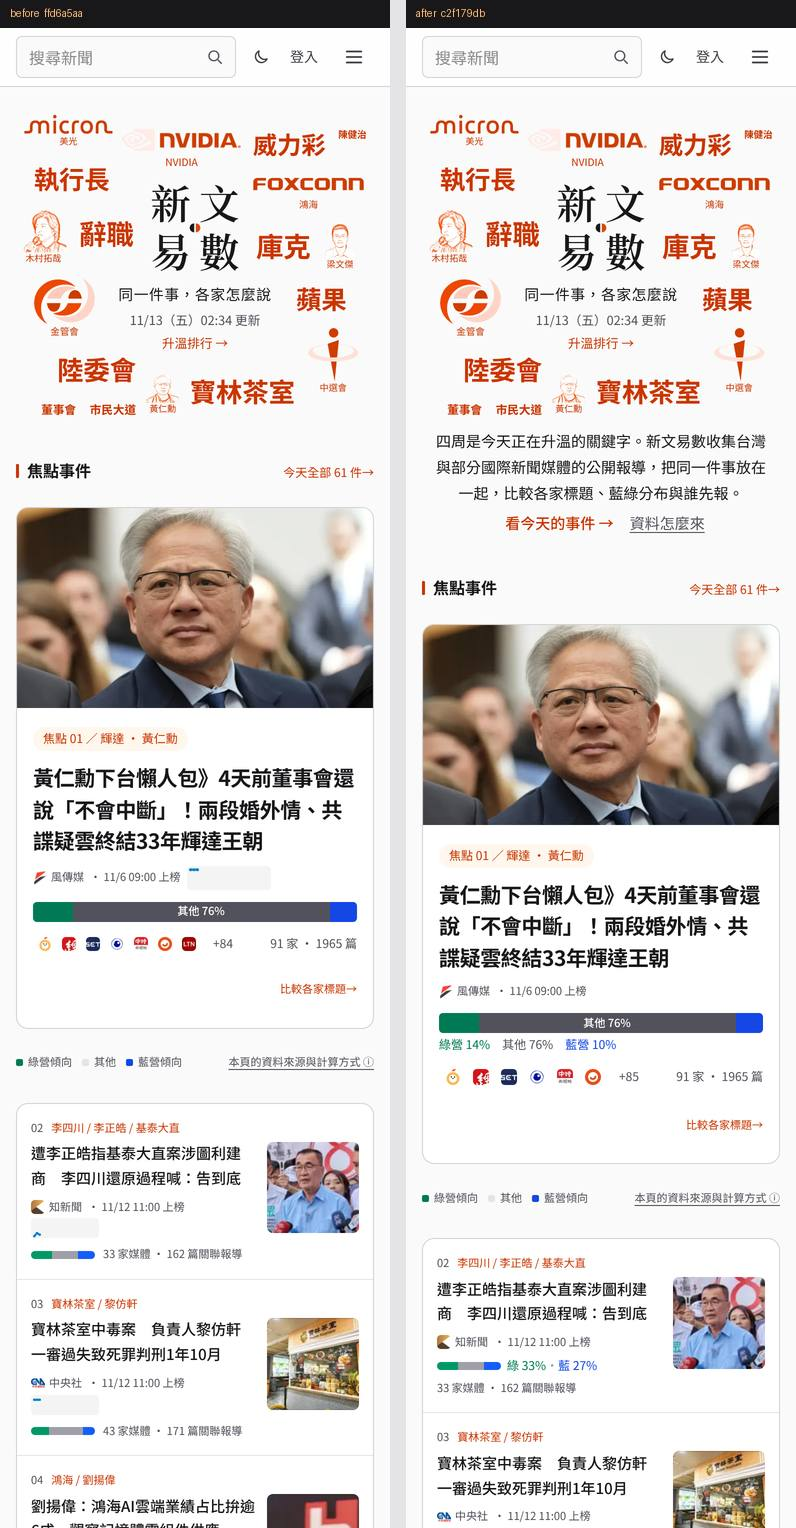
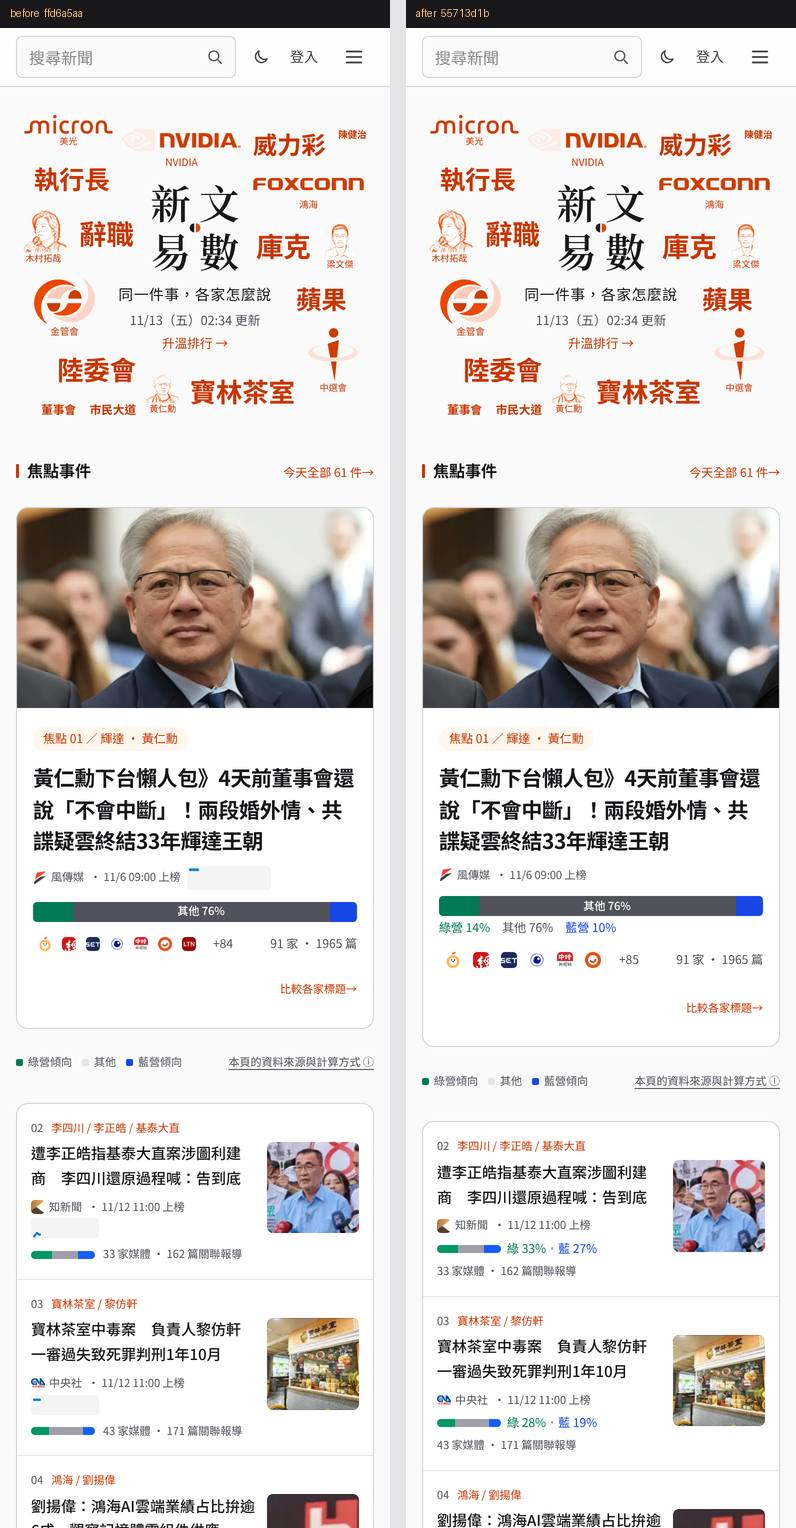
docs(design-review): home comparison shots after folding the intro

Changed region(s): [[0.5126, 0.2768, 0.995, 1.0], [0.5729, 0.0, 0.603, 0.0308]]

diff --git a/docs/design-review/results/scores.md b/docs/design-review/results/scores.md
@@ -53,3 +53,7 @@
 - 基準與對手的分數在截圖完全不變的情況下，總分在 6.0–7.0、7.0–8.0 之間擺動，單輪最大漂移 ±1.0（r10 基準）。所以單看新版總分（7.5→8.0）不能當成進步；以「同一輪的新版−基準」與 12 項平均為準。
 - 階段 1 跑滿十輪；新版從未拿到 9 分（最高 8.0，r6、r8、r10），沒有觸發 council。
 - 評審反覆提到但沒有處理的：similarity-daily 與 similarity-reposts 畫面相同（/similarity/daily/ 本來就轉址到 /similarity/reposts/，截圖清單 brief 固定不改）；首頁「讀者關注」的「事件 #N」是 API 給的標題（不改 API）；手機新聞列的完整原始網址（專案規則要求每列印出原始網址）。
+
+## 評審之後的修改
+
+- `55713d1b`（PR #35 回饋）：首頁文字雲下的一句說明移到頁尾收合的「本頁的資料來源與計算方式」。全部狀態重拍，只有首頁改變；沒有重跑盲測評審，所以上表分數不含這次修改。
